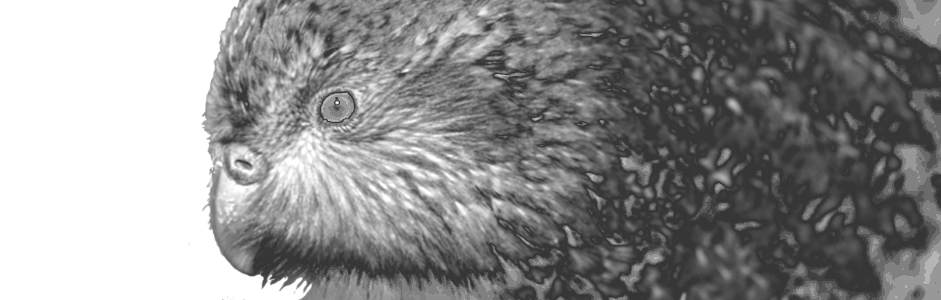
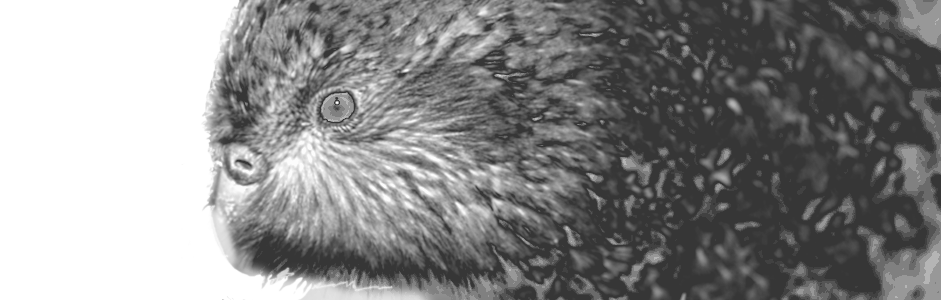
Added application form button to StudyDetails, new kakapo image

diff --git a/src/StudyViewer/StudyDetails.jsx b/src/StudyViewer/StudyDetails.jsx
@@ -336,6 +336,20 @@ class StudyDetails extends React.Component {
                  )))}
                </div>
              ) : null }
+           {(this.props.data.applicationData)
+             ? (
+               <div>
+                 {(Object.entries(this.props.data.applicationData).map(([k, v]) => (
+                   <div key={k}>
+                     <a href={v} target="_blank">
+                     <button
+                       className='button-primary-orange'
+                     >Projects</button>
+                     </a>
+                   </div>
+                 )))}
+               </div>
+             ) : null }
            {(this.props.data.tableData)
              ? (
                <Descriptions
@@ -419,6 +433,7 @@ StudyDetails.propTypes = {
     title: PropTypes.string.isRequired,
     rowAccessorValue: PropTypes.string.isRequired,
     blockData: PropTypes.object,
+    applicationData: PropTypes.object,
     tableData: PropTypes.object,
     displayButtonsData: PropTypes.object,
     accessibleValidationValue: PropTypes.string,

diff --git a/src/StudyViewer/reduxer.js b/src/StudyViewer/reduxer.js
@@ -120,6 +120,7 @@ const processDataset = (nameOfIndex, receivedData, itemConfig, displayButtonsFie
           processedItem.title = dataElement[targetStudyViewerConfig.titleField];
           processedItem.rowAccessorValue = dataElement[targetStudyViewerConfig.rowAccessor];
           processedItem.blockData = _.pick(dataElement, itemConfig.blockFields);
+          processedItem.applicationData = _.pick(dataElement, itemConfig.blockFields);
           processedItem.tableData = _.pick(dataElement, itemConfig.tableFields);
           processedItem.displayButtonsData = _.pick(dataElement, displayButtonsFields);
           processedItem.accessibleValidationValue = dataElement.auth_resource_path;

diff --git a/src/StudyViewer/StudyCard.jsx b/src/StudyViewer/StudyCard.jsx
@@ -57,6 +57,7 @@ StudyCard.propTypes = {
     title: PropTypes.string.isRequired,
     rowAccessorValue: PropTypes.string.isRequired,
     blockData: PropTypes.object,
+    applicationData: PropTypes.object,
     tableData: PropTypes.object,
     accessibleValidationValue: PropTypes.string,
     fileData: PropTypes.array,
